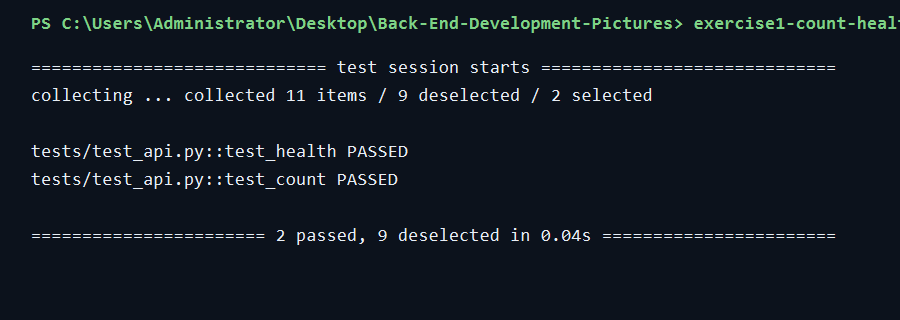
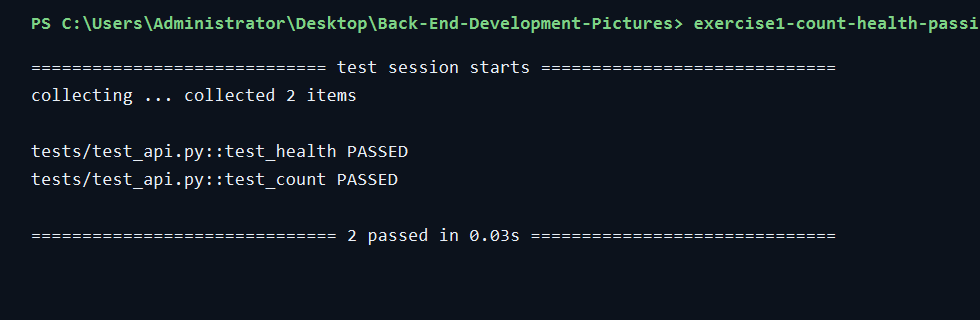
2

diff --git a/README.md b/README.md
@@ -2,6 +2,30 @@
 
 Flask microservice for the band capstone project. The service exposes picture metadata from past events and provides REST endpoints used by the main Django application.
 
+## Environment Setup
+
+This repository was created from the IBM Skills Network template repository:
+
+```text
+https://github.com/ibm-developer-skills-network/luggb-Back-End-Development-Pictures
+```
+
+The local development environment is prepared by running the provided setup script:
+
+```bash
+bash ./bin/setup.sh
+```
+
+The setup script installs Python `3.9.x`, creates the course virtual environment named `backend-pics-venv`, installs the required Python packages from `requirements.txt`, and completes the capstone environment setup.
+
+After setup, confirm the environment with:
+
+```bash
+python3.9 --version
+source backend-pics-venv/bin/activate
+pytest
+```
+
 ## Endpoints
 
 - `GET /health` returns service health.
